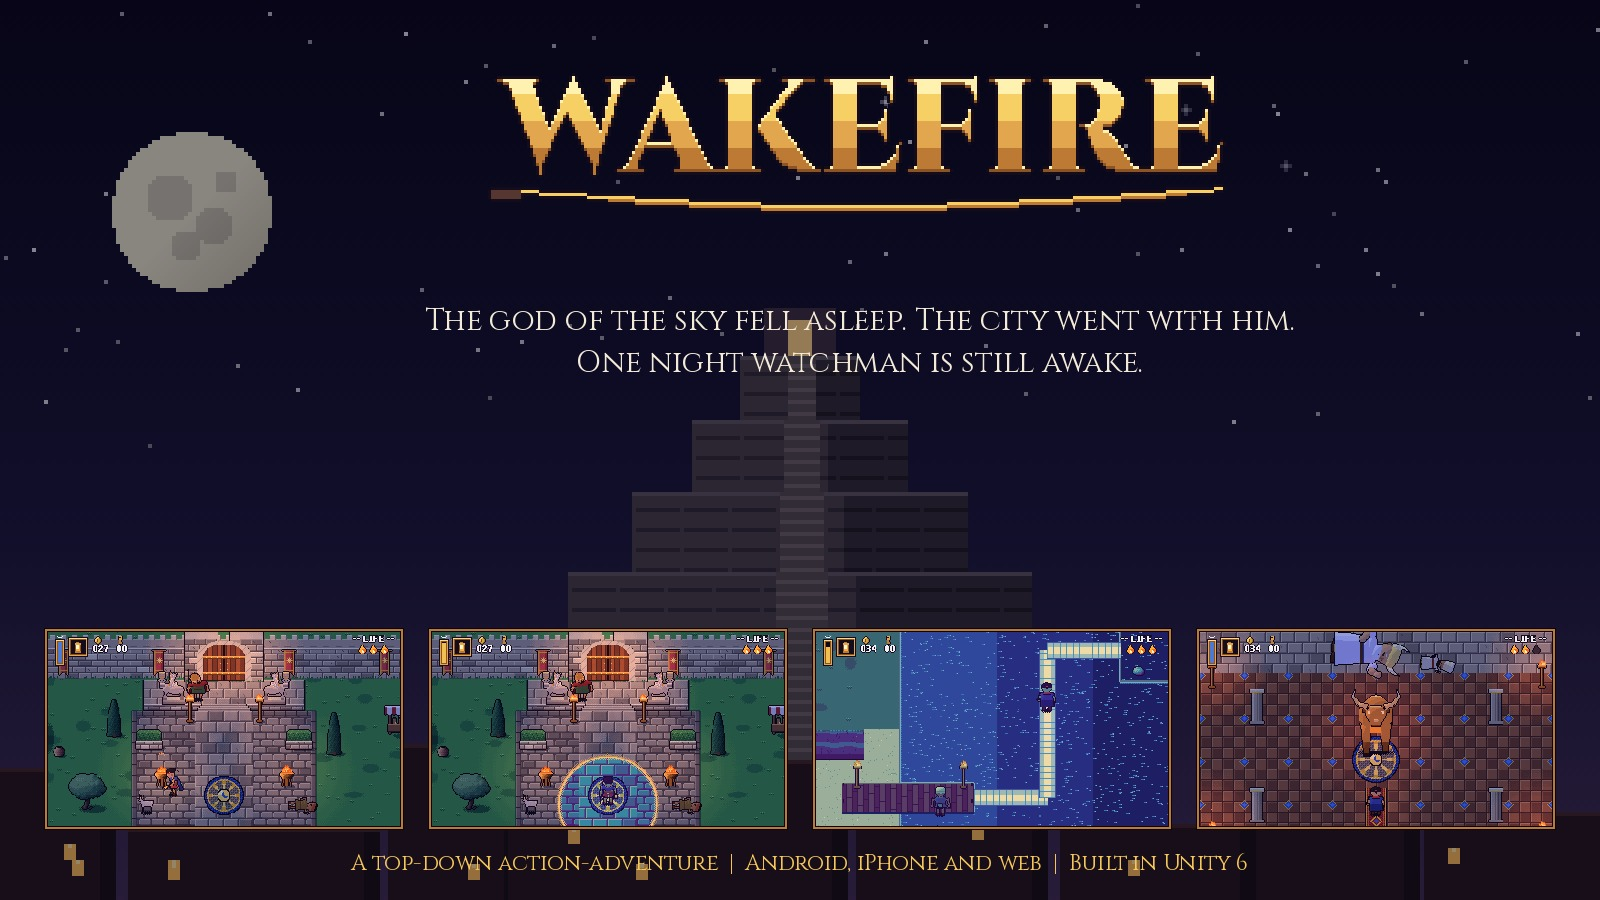
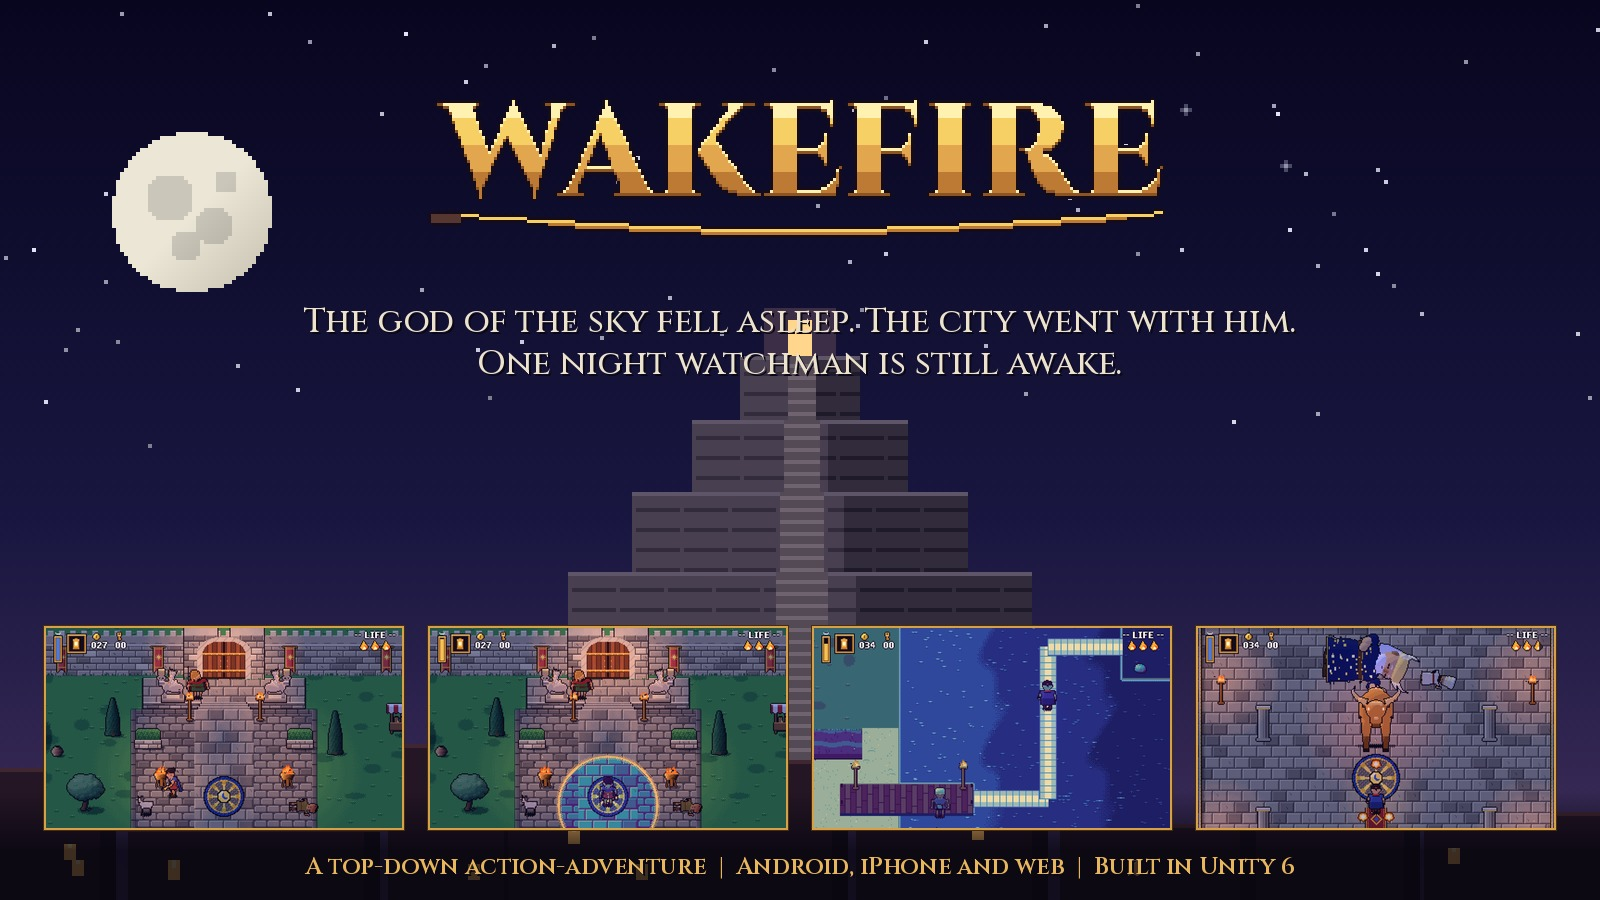
New store images: the open summit, the bull breathing fire at the Mirror Shield; README for the floating stick

diff --git a/Assets/Wakefire/Scripts/Test/MediaTest.cs b/Assets/Wakefire/Scripts/Test/MediaTest.cs
@@ -98,12 +98,21 @@ namespace Wakefire
             Story.Set("bull_dead");
             yield return Enter("zig_3", "south");
             Story.Flags.Remove("bull_dead");
-            var bull = BrazenBull.Spawn(Map.ToWorld(240, 210));
-            bull.Begin();
-            p.pos = Map.ToWorld(240, 292);
+            var bull = BrazenBull.Spawn(Map.ToWorld(240, 196));
+            p.pos = Map.ToWorld(240, 268);
+            p.Face(Facing.Up);
             p.health.invulnerable = 999;
-            Frame(new Vector2(240, 196));
-            for (int i = 0; i < 8; i++) yield return t.Shot("m11-bull-" + i, 0.45f);
+            Frame(new Vector2(240, 176));
+            yield return new WaitForSeconds(0.4f);
+            // the bull breathes fire, the mirror shield sends it back
+            bull.Pose("shoot", Facing.Down);
+            for (int i = 0; i < 8; i++)
+            {
+                if (i == 1)
+                    for (int k = -1; k <= 1; k++)
+                        Projectile.Fireball(bull.Mouth, (Vector2)(Quaternion.Euler(0, 0, k * 14f) * Vector2.down) * 5.2f, bull.gameObject);
+                yield return t.Shot("m11-bull-" + i, 0.1f);
+            }
             // the ending: the god mumbles, the watchman nearly gives in
             Object.Destroy(bull.gameObject);
             p.pos = Map.ToWorld(240, 180);

diff --git a/Assets/Wakefire/Scripts/Actors/Boss.cs b/Assets/Wakefire/Scripts/Actors/Boss.cs
@@ -62,6 +62,10 @@ namespace Wakefire
 
         public void Begin() { s = S.Idle; clock = 0; }
 
+        /// <summary>Hold a pose without thinking (for staged pictures).</summary>
+        public void Pose(string a, Facing f) { facing = f; anim.Play(a, f, true); }
+        public Vector2 Mouth => pos + new Vector2(0, -2.0f + 0.3f);
+
         public bool Hit(HitInfo h)
         {
             if (s == S.Wait || s == S.Dying) return false;

diff --git a/README.md b/README.md
@@ -21,7 +21,7 @@ When Azar nods off, the world flips. A ring of gold sweeps out from where he sta
 | ![The lower town](docs/screens/05-lower-town.png) | ![The road of moonlight](docs/screens/06-road-of-moonlight.png) |
 | The lower town: every sleeper's dream-self has something to say | A road of moonlight over the sea, only there while you dream |
 | ![The temple yard](docs/screens/07-temple-yard.png) | ![The Brazen Bull](docs/screens/08-brazen-bull.png) |
-| The long road across the chasm, for someone who can dream long enough | The Brazen Bull, the high priest's guilt cast in bronze |
+| The long road across the chasm, for someone who can dream long enough | The summit: the Brazen Bull, the high priest's guilt cast in bronze, breathing fire at the Mirror Shield |
 
 ## The chapter
 
@@ -30,7 +30,7 @@ When Azar nods off, the world flips. A ring of gold sweeps out from where he sta
 - **The sea cliffs.** Brine crabs have stolen Abu-Nur's Night Oil. Get it back and your dreams last twice as long.
 - **The olive terraces.** Jackals hunt in pairs. An old shrine keeps something for anyone who looks twice.
 - **The temple yard.** A chasm with a long road of moonlight across it, for someone who can dream long enough.
-- **The ziggurat.** Walls that exist in only one world, blocks to shove, bronze sentinels, a bull's head that breathes fire, the Bronze Mirror Shield, and at the summit, the reason the god won't wake up.
+- **The ziggurat.** Walls that exist in only one world, blocks to shove, bronze sentinels, a bull's head that breathes fire, the Bronze Mirror Shield, and at the summit, open to the storm, the reason the god won't wake up.
 
 And the goat. The goat is everywhere.
 
@@ -38,7 +38,7 @@ And the goat. The goat is everywhere.
 
 | | Keyboard | Gamepad | Touch |
 |---|---|---|---|
-| Move | WASD / arrows | Left stick / d-pad | Left thumbstick |
+| Move | WASD / arrows | Left stick / d-pad | Thumb down anywhere on the left |
 | Khopesh (3-hit combo) | J / Space | X / Square | Blade button |
 | Roll | K / Shift | B / Circle | Roll button |
 | Talk, look, open | E / Enter | A / Cross | Speech button |
@@ -46,7 +46,7 @@ And the goat. The goat is everywhere.
 | Nod off / wake up | Q / L | Y / Triangle | Moon button |
 | Pause | Esc / P | Start | Pause button |
 
-The game saves every time you walk into a new place and every time you find something.
+The game saves every time you walk into a new place and every time you find something. On phones the controls stay clear of notches and rounded corners.
 
 ## How it's made
 
